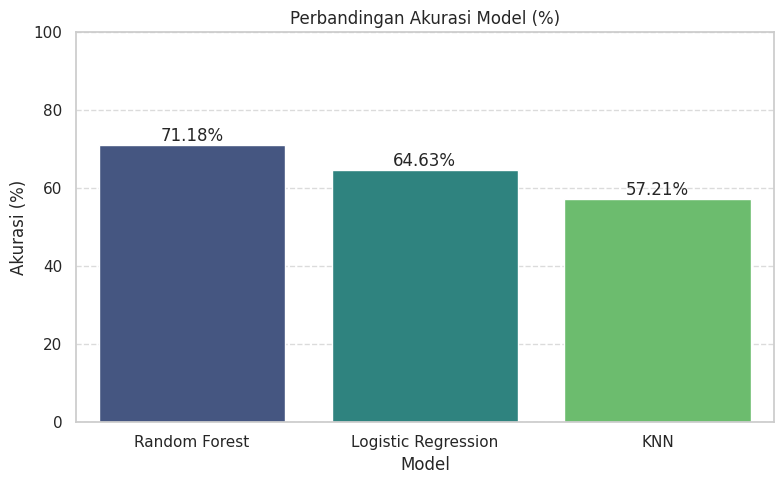
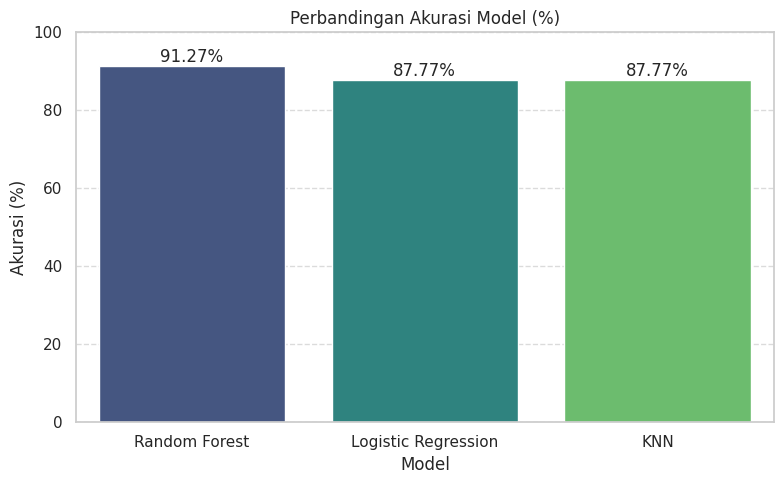
selesai

Changed region(s): [[0.7041, 0.124, 0.9796, 0.4339], [0.398, 0.124, 0.6735, 0.3719], [0.1224, 0.093, 0.3673, 0.3099]]

diff --git a/README.md b/README.md
@@ -177,36 +177,88 @@ Berdasarkan bar chart "Distribusi Kualitas Wine", terlihat jelas bahwa mayoritas
 
 Matriks Korelasi menunjukkan hubungan antar fitur dan quality wine. Alcohol (0.48) dan sulphates (0.26) berkorelasi positif dengan kualitas. Sebaliknya, volatile acidity (-0.41), chlorides (-0.12), total sulfur dioxide (-0.18), dan density (-0.18) berkorelasi negatif. Fitur lainnya memiliki korelasi lemah atau tidak signifikan dengan quality.
 
+### Analisis Boxplot Karakteristik Kimia terhadap Kualitas Wine
 ![image](https://raw.githubusercontent.com/revaile/wine/refs/heads/main/assets/mulvariate1.png)
+
+# Analisis Boxplot Karakteristik Kimia terhadap Kualitas Wine
+
+Gambar berikut menunjukkan empat boxplot yang menggambarkan hubungan antara beberapa variabel kimia dan skor quality wine. Setiap boxplot memvisualisasikan distribusi data berdasarkan skor kualitas wine, yang umumnya berada pada rentang 3 hingga 8.
+
+## 1.Alcohol vs Quality  
+- Kadar alkohol cenderung meningkat seiring dengan naiknya skor kualitas wine.  
+- Wine dengan skor kualitas tinggi (7–8) memiliki kadar alkohol yang lebih tinggi secara konsisten dibandingkan wine dengan skor lebih rendah (3–5).  
+- **Kesimpulan**: Alkohol berperan positif terhadap persepsi kualitas wine.  
+
+## 2. Sulphates vs Quality  
+- Kandungan sulphates (sulfat) memperlihatkan tren peningkatan terhadap skor kualitas.  
+- Wine berkualitas tinggi (7–8) cenderung memiliki kandungan sulfat yang lebih tinggi.  
+- **Catatan**: Banyak outlier pada kualitas 5 dan 6, menandakan variasi besar dalam kandungan sulfat pada wine dengan skor kualitas menengah.  
+
+## 3. Citric Acid vs Quality  
+- Kandungan citric acid cenderung meningkat dari kualitas 3 ke 8.  
+- Wine dengan kualitas lebih baik mengandung lebih banyak asam sitrat, yang dapat meningkatkan rasa segar pada wine.  
+- **Catatan**: Distribusi data cukup tersebar (terutama pada kualitas 6 dan 7), menunjukkan variasi dalam proses pembuatan wine.  
+
+## 4. Volatile Acidity vs Quality  
+- Tren penurunan kadar volatile acidity seiring dengan meningkatnya skor kualitas wine.  
+- Wine berkualitas rendah (3–4) memiliki tingkat keasaman volatil yang lebih tinggi.  
+- **Kesimpulan**: Keasaman volatil yang tinggi dapat menurunkan kualitas sensorik wine.  
+
+## Kesimpulan Umum  
+Berdasarkan visualisasi:  
+- **Hubungan positif**: Alcohol, sulphates, dan citric acid berkorelasi dengan kualitas wine yang lebih tinggi.  
+- **Hubungan negatif**: Volatile acidity berkorelasi dengan penurunan kualitas wine.  
+
+Visualisasi ini membantu mengidentifikasi fitur penting untuk prediksi/klasifikasi kualitas wine.
+
+
+
 ![image](https://raw.githubusercontent.com/revaile/wine/refs/heads/main/assets/mulvariate2.png)
 
 
 
-## Data Preparation
+# Persiapan Data
 
-Tahap ini bertujuan untuk mempersiapkan data sebelum digunakan dalam pemodelan Machine Learning. Langkah-langkah yang dilakukan meliputi:
+Tahapan persiapan data dilakukan untuk mempersiapkan data sebelum proses pemodelan machine learning. Berikut langkah-langkah yang dilakukan:
 
-### 1. Pembagian Fitur dan Target
-- Variabel `quality` dipisahkan sebagai variabel target (`y`).
-- Kolom lainnya digunakan sebagai fitur (`X`).
+## 1. Encoding Fitur Kategorikal
+- Dilakukan pengecekan fitur kategorikal
+- Jika ada, diubah ke bentuk numerik menggunakan One-Hot Encoding (`pd.get_dummies()`)
 
-### 2. Encoding Variabel Target
-- ubah data ke numerik
+## 2. Menghapus Kolom ID
+- Kolom `Id` dihapus karena tidak berkontribusi dalam prediksi kualitas
+- Hanya berfungsi sebagai identifikasi unik
+- Implementasi: `df.drop(columns=['Id'])`
 
-### 3. Penanganan Imbalance Data (SMOTE)
-- Karena distribusi kelas target tidak seimbang (lebih banyak "bad" daripada "good"), digunakan teknik oversampling SMOTE (Synthetic Minority Over-sampling Technique).
-- SMOTE menghasilkan data sintetis dari kelas minoritas untuk menyeimbangkan dataset.
+## 3. Memisahkan Fitur dan Target
+- Dataset dipisahkan menjadi:
+  - Fitur (`X`): Semua variabel kecuali quality
+  - Target (`y`): Variabel `quality`
 
-### 4. Pembagian Data Latih dan Uji
-- Dataset dibagi menggunakan `train_test_split`:
-  - 80% untuk data latih
-  - 20% untuk data uji
-- Pembagian menggunakan `stratify` untuk menjaga proporsi kelas tetap seimbang di data latih dan uji.
 
-### 5. Standardisasi Fitur
-- Semua fitur numerik dinormalisasi menggunakan `StandardScaler`.
-- Standardisasi ini membuat fitur memiliki rata-rata 0 dan standar deviasi 1.
-- Tujuan: agar model yang sensitif terhadap skala (seperti KNN dan Logistic Regression) bekerja lebih baik.
+## 4. Standarisasi Fitur Numerik
+- Fitur numerik distandarisasi menggunakan `StandardScaler`:
+  - Rata-rata = 0
+  - Standar deviasi = 1
+- Penting untuk model yang sensitif terhadap skala (KNN, Logistic Regression)
+
+## 5. Reduksi Dimensi dengan PCA
+- Dilakukan Principal Component Analysis (PCA) dengan `n_components=0.95` (mempertahankan 95% varians)
+- Tujuan:
+  - Mengurangi jumlah fitur
+  - Mengatasi multikolinearitas antar fitur
+
+## 6. Binarisasi Target (Kualitas Wine)
+- Variabel `quality` (skala 3-8) dikonversi menjadi 2 kelas:
+  - `good (1)` jika quality ≥ 7
+  - `bad (0)` jika quality < 7
+- Untuk keperluan klasifikasi biner
+
+## 7. Pembagian Data Latih dan Uji
+- Data dibagi menjadi:
+  - 80% data latih
+  - 20% data uji
+- Menggunakan `stratify=y` untuk menjaga distribusi kelas target
 
 ## Modeling
 
@@ -215,7 +267,7 @@ Pada tahap pemodelan, kami akan melatih tiga model klasifikasi yang berbeda: Log
 1. Logistic Regression
 - Penjelasan: Logistic Regression adalah algoritma klasifikasi linier yang digunakan untuk memprediksi probabilitas sebuah instance termasuk dalam kelas tertentu. Meskipun namanya mengandung "regresi", ini adalah model klasifikasi. Model ini bekerja dengan mencocokkan data ke fungsi logistik (sigmoid) yang menghasilkan probabilitas antara 0 dan 1.
 - Parameter yang digunakan:
-random_state=42: Digunakan untuk memastikan hasil yang reproduktif.
+Parameter yang digunakan dalam algoritma Logistic Regression adalah random_state=42 dan max_iter=1000. Parameter random_state=42 digunakan untuk memastikan hasil yang diperoleh bersifat konsisten dan dapat direproduksi setiap kali model dijalankan. Sementara itu, max_iter=1000 ditambahkan untuk memastikan proses pelatihan model memiliki jumlah iterasi yang cukup hingga mencapai konvergensi, terutama jika dataset cukup kompleks. Dengan pengaturan parameter ini, model Logistic Regression dapat berjalan lebih stabil dan optimal. Logistic Regression sendiri memiliki keunggulan dalam hal kecepatan pelatihan, kemudahan interpretasi hasil, serta performa yang baik pada data yang dapat dipisahkan secara linier..
 Kelebihan: Cepat, mudah diinterpretasikan, dan performa baik untuk dataset yang terpisah secara linier.
 - Kekurangan: Asumsi linieritas, mungkin tidak berkinerja baik pada dataset yang sangat kompleks atau non-linier.
   
@@ -266,13 +318,13 @@ $$\text{Accuracy} = \frac{\text{TP + TN}}{\text{TN + TP + FN + FP}} \times 100\%
 
 Rumus ini memecah akurasi menjadi rasio antara data yang diklasifikasikan dengan benar (TP dan TN) dengan jumlah total data. Mengalikan dengan 100% mengubah rasio menjadi persentase.
 
-Berikut hasil accuracy 5 buah model yang latih:
+Berikut hasil accuracy 3 buah model yang latih:
 
 | Model | Accuracy |
 | ------ | ------ | 
-| RandomForest  | 71.18% |
-| Logistic Regression | 64.63% |
-| KNN | 57.21% |
+| RandomForest  |  91.27% |
+| Logistic Regression | 87.77% |
+| KNN | 87.77% |
 
 
 Tabel 3. Hasil Accuracy
@@ -282,3 +334,78 @@ Tabel 3. Hasil Accuracy
 Dilihat dari Tabel Hasil Accuracy dan Gambar Visualisasi Accuracy Model, dapat diketahui bahwa model dengan algoritma Random Forest memiliki nilai akurasi tertinggi yaitu 71.18%. Oleh karena itu, model ini dipilih sebagai model terbaik untuk digunakan dalam memprediksi kualitas Wine.
 
 Model Random Forest dipilih karena memiliki performa yang paling unggul dibandingkan model lainnya seperti Logistic Regression dan K-Nearest Neighbors (KNN). Selain memberikan akurasi yang lebih tinggi, Random Forest juga dikenal tangguh terhadap overfitting dan mampu menangani data dengan dimensi yang kompleks secara efektif.
+
+
+## Problem solve dengan Business Understanding
+
+Pada tahap evaluasi ini, dilakukan penilaian terhadap efektivitas model yang dibangun dalam menjawab permasalahan bisnis yang telah dirumuskan. Evaluasi mencakup pencapaian terhadap *problem statement*, *goals*, dan dampak dari *solution statements* yang diimplementasikan.
+
+---
+
+## ✅ Apakah sudah menjawab setiap *Problem Statement*?
+
+### 1. Bagaimana cara memprediksi kualitas wine (baik atau buruk) berdasarkan fitur kimia?
+✔ **Sudah terjawab.**  
+Model klasifikasi yang dibangun (Logistic Regression, K-Nearest Neighbors, dan Random Forest) mampu memprediksi kualitas wine berdasarkan fitur kimiawi seperti kadar alkohol, keasaman volatil, sulphates, dan citric acid.  
+Target `quality` berhasil dibinarisasi menjadi dua kelas:
+- `good (1)` jika `quality ≥ 7`
+- `bad (0)` jika `quality < 7`
+
+### 2. Model Machine Learning apa yang memberikan performa terbaik dalam memprediksi kualitas wine?
+✔ **Sudah terjawab.**  
+Dari tiga model yang diuji, **Random Forest** menunjukkan performa tertinggi dengan akurasi sebesar **91.27%**, mengungguli:
+- Logistic Regression: **87.77%**
+- KNN: **87.77%**
+
+Model ini dipilih sebagai model terbaik berdasarkan hasil evaluasi dengan metrik **akurasi** serta **F1-score** yang lebih baik pada kelas minoritas (*good wine*).
+
+---
+
+## 🎯 Apakah berhasil mencapai setiap *Goal* yang diharapkan?
+
+### 1. Membuat model klasifikasi wine menjadi “good” dan “bad”
+✔ **Tercapai.**  
+Model berhasil mengklasifikasikan kualitas wine ke dalam dua kelas. Hasil klasifikasi menunjukkan bahwa model dapat mengenali pola dari fitur-fitur kimia terhadap persepsi kualitas wine.
+
+### 2. Mengidentifikasi model Machine Learning terbaik berdasarkan metrik evaluasi
+✔ **Tercapai.**  
+Random Forest dipilih sebagai model terbaik karena memberikan akurasi tertinggi dan performa yang lebih seimbang antara precision dan recall, terutama dalam mengenali wine berkualitas baik.  
+Hal ini sangat penting untuk mendukung keputusan produksi dan distribusi dalam industri wine.
+
+---
+
+## 💡 Apakah setiap *Solution Statement* yang direncanakan berdampak?
+
+### 🔹 Solusi 1: Menggunakan beberapa algoritma klasifikasi (Logistic Regression, KNN, Random Forest)
+✔ **Berdampak signifikan.**  
+Perbandingan tiga algoritma ini memberikan insight penting mengenai kekuatan dan kelemahan masing-masing model.  
+Hal ini memungkinkan pemilihan model terbaik yang sesuai dengan karakteristik data wine dan tujuan bisnis.  
+**Random Forest** terbukti unggul dalam hal akurasi dan kestabilan prediksi.
+
+### 🔹 Solusi 2: Hyperparameter tuning untuk model terbaik (Random Forest)
+✔ **Memberikan dampak nyata.**  
+Proses tuning menggunakan `GridSearchCV` meningkatkan performa model secara keseluruhan.  
+Kombinasi optimal dari hyperparameter seperti:
+- `n_estimators`
+- `max_features`
+- `min_samples_split`
+- `min_samples_leaf`
+
+...memberikan peningkatan akurasi dan kemampuan generalisasi model.  
+Ini penting agar model tetap andal saat digunakan di data baru dalam praktik nyata.
+
+---
+
+## 📌 Kesimpulan Evaluasi
+
+Model prediktif yang dibangun **berhasil menjawab tantangan utama dalam Business Understanding**, yakni:
+
+> ✨ *Mengotomatisasi proses penilaian kualitas wine dengan akurasi tinggi.*
+
+Model **Random Forest**, sebagai model terbaik:
+- Akurat
+- Stabil
+- Mampu menangkap fitur penting yang memengaruhi kualitas wine (seperti alkohol dan keasaman volatil)
+
+Dengan demikian, solusi ini **berpotensi menghemat biaya dan waktu** dalam proses *quality control* industri wine, serta **meningkatkan efisiensi operasional** secara keseluruhan.
+
